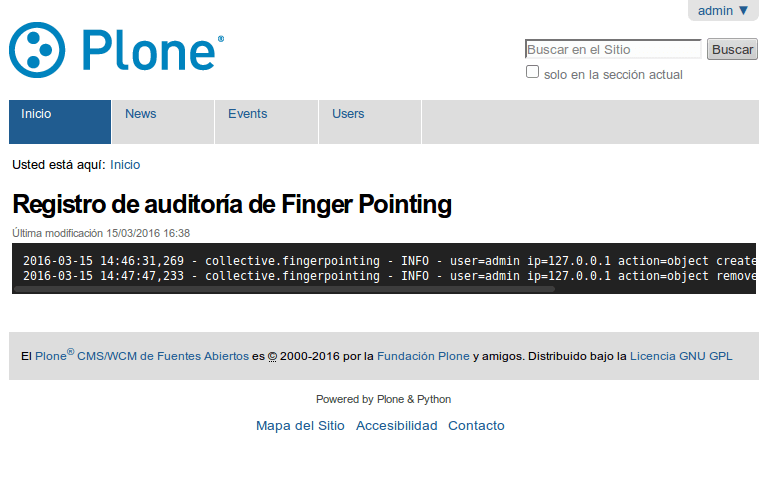
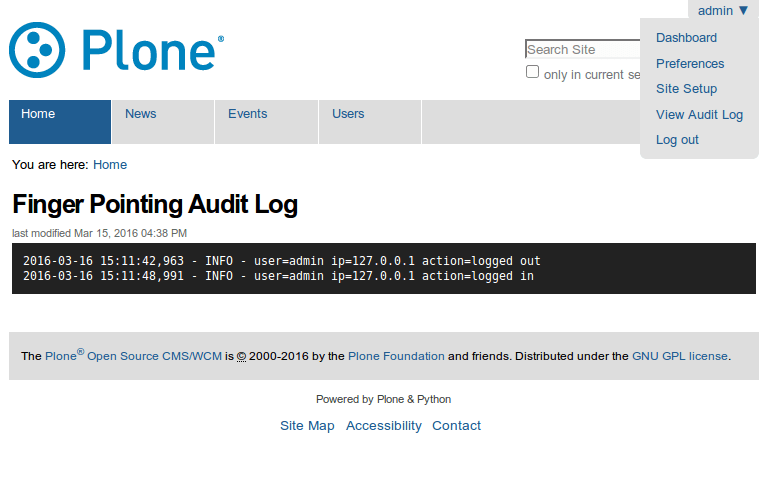
Fix documentation and compress images

diff --git a/README.rst b/README.rst
@@ -64,7 +64,9 @@ Go to 'Site Setup' and select 'Finger Pointing' and enable the events you want t
 
     The Finger Pointing control panel configlet.
 
-Finger Pointing will start logging the selected events::
+Finger Pointing will start logging the selected events:
+
+.. code-block:: console
 
     # bin/instance fg
     2016-03-01 17:29:29 INFO ZServer HTTP server started at Tue Mar  1 17:29:29 2016
@@ -76,15 +78,16 @@ Finger Pointing will start logging the selected events::
     2016-03-01 17:31:40 INFO collective.fingerpointing user=admin ip=127.0.0.1 action=logged out
     2016-03-01 17:31:49 INFO collective.fingerpointing user=admin ip=127.0.0.1 action=logged in
 
-These events are also logged in `var/log/audit.log`::
+These events are also logged in `var/log/audit.log`:
 
-    2016-03-01 17:31:40,813 - collective.fingerpointing - INFO - user=admin ip=127.0.0.1 action=logged out
-    2016-03-01 17:31:49,678 - collective.fingerpointing - INFO - user=admin ip=127.0.0.1 action=logged in
+.. code-block:: console
 
-The audit log is available through the `@@fingerpointing-log` view,
-available in portal_actions for users with the `collective.fingerpointing: Show the Log` permission.
+    2016-03-01 17:31:40,813 - INFO - user=admin ip=127.0.0.1 action=logged out
+    2016-03-01 17:31:49,678 - INFO - user=admin ip=127.0.0.1 action=logged in
 
-.. image:: docs/audit-log-view.png
+An audit log view is available in the user menu to users with the `collective.fingerpointing: View Audit Log` permission:
+
+.. figure:: docs/audit-log-view.png
     :align: left
     :alt: Finger Pointing
     :height: 480px
